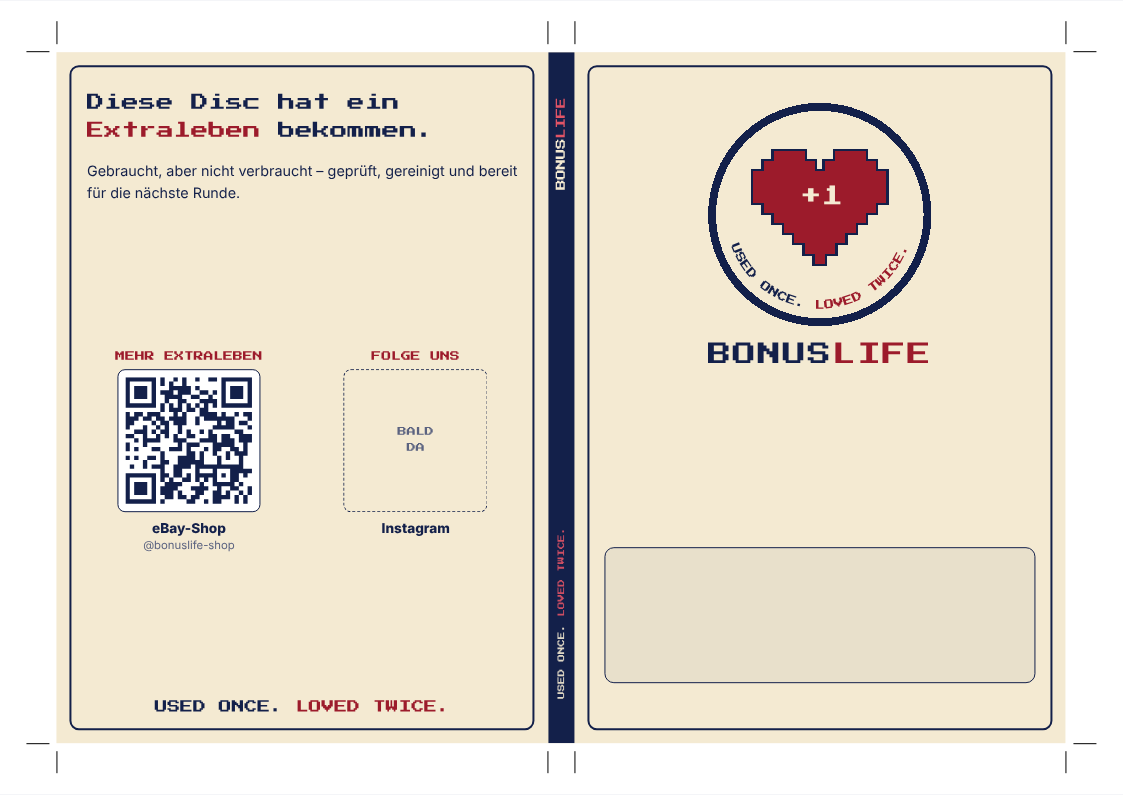
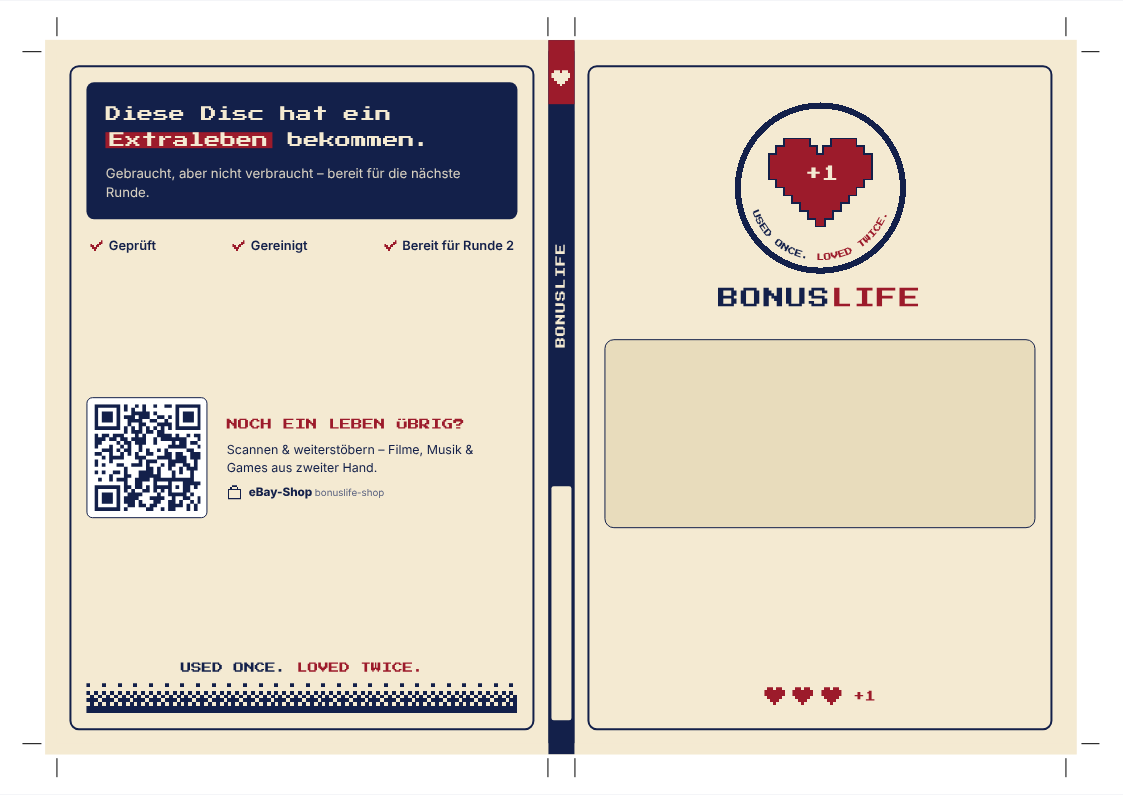
Redesign cover after marketing and art-direction review
Front: smaller badge with wordmark, title box moved up, pixel 'lives'
bar at the bottom. Spine: red heart cap, BONUSLIFE in cream, cream
write-on field for the title so stacked cases stay identifiable; slogan
and off-brand pink removed. Back: navy headline band, pixel checklist,
QR codes with call-to-action copy and own pixel icons (no third-party
logos), dithered pixel footer. Single shop code until an Instagram link
is entered. Adds 3 mm bleed and moves crop marks outside it.

Claude-Session: https://claude.ai/code/session_016MhpHubkyT9LhNT91FdgZQ

diff --git a/cover/index.html b/cover/index.html
@@ -12,13 +12,13 @@
   --panel-w:130mm;   /* Breite Vorder-/Rückseite */
   --spine:7mm;       /* Rückenbreite */
   --h:183mm;         /* Höhe */
+  --bleed:3mm;       /* Beschnittzugabe */
   /* Bonuslife-Farben (aus dem Logo) */
-  --cream:#f4ead2; --navy:#13204a; --red:#9c1b2b;
-  --bg:var(--cream); --fg:var(--navy); --accent:var(--red); --muted:#5b6380; --field:rgba(19,32,74,.05);
+  --cream:#f4ead2; --cream-d:#e8dcbc; --navy:#13204a; --red:#9c1b2b;
+  --bg:var(--cream); --fg:var(--navy); --accent:var(--red); --muted:#5b6380; --field:var(--cream-d);
   --ui-bg:#f4f5f8; --ui-fg:#1b1d2a; --ui-card:#ffffff; --ui-line:#d9dbe4;
 }
-.white{ --bg:#ffffff; }
-.dark{ --bg:var(--navy); --fg:var(--cream); --muted:#aab0c8; --field:rgba(244,234,210,.08); }
+.white{ --bg:#ffffff; --field:var(--cream); }
 @media (prefers-color-scheme: dark){
   :root:not([data-theme="light"]){ --ui-bg:#14151c; --ui-fg:#e8e9ef; --ui-card:#1e2029; --ui-line:#33364a; }
 }
@@ -41,46 +41,65 @@ h1{font-size:18px;margin-bottom:4px}
 .scroll{overflow-x:auto;padding-bottom:8px}
 .sheet{width:297mm;height:210mm;background:#fff;position:relative;box-shadow:0 2px 14px rgba(0,0,0,.18)}
 .cover{position:absolute;left:50%;top:50%;transform:translate(-50%,-50%);height:var(--h);
-  width:calc(var(--panel-w)*2 + var(--spine));display:flex;background:var(--bg);color:var(--fg);overflow:hidden}
-.panel{width:var(--panel-w);height:100%;position:relative;padding:8mm 8mm;display:flex;flex-direction:column}
-.spine{width:var(--spine);height:100%;background:var(--navy);color:var(--cream);display:flex;align-items:center;justify-content:center;overflow:hidden}
-.spine .sp{writing-mode:vertical-rl;transform:rotate(180deg);white-space:nowrap;display:flex;align-items:center;justify-content:space-between;height:100%;padding:12mm 0;font-size:min(3.2mm,calc(var(--spine)*.5))}
-.spine .sp b{font-family:"Press Start 2P",monospace;font-size:.85em;font-weight:400}
-.spine .sp b span{color:#e25466}
-.spine .sp .sl{font-size:.62em;opacity:.9}
+  width:calc(var(--panel-w)*2 + var(--spine));display:flex;background:var(--bg);color:var(--fg);
+  box-shadow:0 0 0 var(--bleed) var(--bg)}  /* Beschnitt: Hintergrund läuft 3 mm über */
+.panel{width:var(--panel-w);height:100%;position:relative;padding:8mm;display:flex;flex-direction:column;overflow:hidden}
+.frame{position:absolute;inset:3.5mm;border:.6mm solid var(--fg);border-radius:2.5mm;pointer-events:none}
+.px{display:block;shape-rendering:crispEdges}
 
-/* Schnitt- und Falzmarken (außerhalb des Covers) */
+/* Rücken */
+.spine{width:var(--spine);height:100%;position:relative;background:var(--navy);color:var(--cream);display:flex;flex-direction:column;align-items:center}
+.spine::before{content:"";position:absolute;left:0;right:0;top:calc(-1*var(--bleed));bottom:calc(-1*var(--bleed));background:var(--navy)}
+.spine>*{position:relative}
+.spine .cap{width:100%;height:calc(14mm + var(--bleed));margin-top:calc(-1*var(--bleed));padding-top:var(--bleed);background:var(--red);display:flex;align-items:center;justify-content:center}
+.spine .cap .px{width:min(5mm,calc(var(--spine)*.72))}
+.spine .name{flex:1;display:flex;align-items:center;justify-content:center}
+.spine .name b{writing-mode:vertical-rl;transform:rotate(180deg);font-family:"Press Start 2P",monospace;font-weight:400;font-size:min(2.8mm,calc(var(--spine)*.42));letter-spacing:.3mm;white-space:nowrap}
+.spine .write{width:calc(100% - 1.6mm);height:62mm;background:var(--cream);border-radius:.6mm;margin-bottom:6mm}
+
+/* Schnitt- und Falzmarken (außerhalb des Beschnitts) */
 .marks{position:absolute;left:50%;top:50%;transform:translate(-50%,-50%);height:var(--h);width:calc(var(--panel-w)*2 + var(--spine));pointer-events:none}
 .marks i{position:absolute;background:#000}
-.mh{height:.2mm;width:6mm}.mv{width:.2mm;height:6mm}
-
-/* Rahmen-Akzent */
-.frame{position:absolute;inset:3.5mm;border:.6mm solid var(--fg);border-radius:2.5mm;pointer-events:none}
+.mh{height:.2mm;width:5mm}.mv{width:.2mm;height:5mm}
 
 /* Vorderseite */
 .front{align-items:center;text-align:center}
-.badge{width:60mm;height:60mm;margin-top:5mm}
-.badge img{width:100%;height:100%;object-fit:contain}
-.brand{font-family:"Press Start 2P",monospace;font-size:6.2mm;margin-top:4mm;letter-spacing:.4mm}
+.badge{width:46mm;height:46mm;margin-top:5mm}
+.badge img,.badge svg{width:100%;height:100%;object-fit:contain;display:block}
+.brand{font-family:"Press Start 2P",monospace;font-size:5.6mm;margin-top:3.5mm;letter-spacing:.4mm}
 .brand span{color:var(--accent)}
-.titlefield{align-self:stretch;margin:auto 0 8mm;min-height:36mm;border:.5mm solid var(--fg);border-radius:2.5mm;background:var(--field);display:flex;align-items:center;justify-content:center;padding:4mm}
+.titlefield{align-self:stretch;margin-top:8mm;height:50mm;border:.5mm solid var(--fg);border-radius:2.5mm;background:var(--field);display:flex;align-items:center;justify-content:center;padding:4mm}
 .titlefield .t{font-weight:800;font-size:7.5mm;line-height:1.15;word-break:break-word}
+.lives{margin-top:auto;margin-bottom:2mm;display:flex;gap:2mm;align-items:center}
+.lives .px{width:5.5mm}
+.lives .plus{font-family:"Press Start 2P",monospace;font-size:3mm;color:var(--accent);margin-left:1mm}
 
 /* Rückseite */
-.back{justify-content:space-between}
-.back h2{font-family:"Press Start 2P",monospace;font-size:4.6mm;line-height:1.6;font-weight:400;margin-top:2mm}
-.back h2 span{color:var(--accent)}
-.back p{font-size:3.8mm;line-height:1.5;margin-top:4mm}
-.qrs{display:flex;gap:6mm;justify-content:center}
-.qrcard{flex:1;display:flex;flex-direction:column;align-items:center;text-align:center;gap:2mm}
-.qrcard .k{font-family:"Press Start 2P",monospace;font-size:2.6mm;color:var(--accent)}
-.qr{width:38mm;height:38mm;background:#fff;padding:2mm;border-radius:2mm;border:.5mm solid var(--navy)}
+.head{position:relative;background:var(--navy);color:var(--cream);border-radius:2mm;padding:5mm 5mm 4.5mm}
+.head h2{font-family:"Press Start 2P",monospace;font-size:4.2mm;line-height:1.7;font-weight:400}
+.head h2 span{background:var(--red);padding:0 1mm;box-decoration-break:clone;-webkit-box-decoration-break:clone}
+.head p{font-size:3.5mm;line-height:1.45;margin-top:2.5mm;opacity:.88}
+.checks{display:flex;justify-content:space-between;margin-top:5mm;padding:0 1mm}
+.checks span{display:flex;align-items:center;gap:1.6mm;font-size:3.4mm;font-weight:600}
+.checks .px{width:3.2mm}
+.qrs{margin:auto 0;display:flex;gap:6mm;justify-content:center}
+.qrcard{flex:1;display:flex;flex-direction:column;align-items:center;text-align:center;gap:2mm;max-width:52mm}
+.qrcard .k{font-family:"Press Start 2P",monospace;font-size:2.5mm;line-height:1.5;color:var(--accent)}
+.qr{width:28mm;height:28mm;background:#fff;padding:1.6mm;border-radius:1.6mm;border:.5mm solid var(--navy)}
 .qr svg{width:100%;height:100%;display:block}
-.qr.soon{background:transparent;border-style:dashed;display:flex;align-items:center;justify-content:center;font-family:"Press Start 2P",monospace;font-size:2.4mm;line-height:1.8;color:var(--muted)}
-.qrcard .n{font-weight:800;font-size:3.6mm}
-.qrcard .h{font-size:3mm;color:var(--muted);margin-top:-1.4mm}
-.slogan{font-family:"Press Start 2P",monospace;font-size:3.4mm;text-align:center}
+.qrcard .lbl{display:flex;align-items:center;gap:1.6mm;font-size:3.1mm;font-weight:800}
+.qrcard .lbl .px{width:4.2mm}
+.qrcard .lbl small{font-weight:400;color:var(--muted)}
+/* nur ein Code: quer, mit Text daneben */
+.qrs.single .qrcard{flex-direction:row;max-width:none;text-align:left;gap:5mm}
+.qrs.single .qr{width:32mm;height:32mm;flex:none}
+.qrs.single .txt{display:flex;flex-direction:column;gap:2.2mm;align-items:flex-start}
+.qrs.single .k{font-size:3mm}
+.qrcard .cta{font-size:3.3mm;line-height:1.4}
+.bottom{text-align:center}
+.slogan{font-family:"Press Start 2P",monospace;font-size:2.8mm;margin-bottom:2.5mm}
 .slogan span{color:var(--accent)}
+.dither{display:block;width:100%;height:8mm}
 
 @media print{
   @page{size:A4 landscape;margin:0}
@@ -95,13 +114,13 @@ h1{font-size:18px;margin-bottom:4px}
 <body>
 <div class="noprint">
   <h1>Bonuslife – Cover für Slim-DVD-Hüllen</h1>
-  <p class="hint">Titel leer lassen = Feld zum Beschriften von Hand. Drucken auf A4 quer, <b>Skalierung 100 % / „Tatsächliche Größe“</b>, Ränder „Keine“, Hintergrundgrafiken an. Schnittmarken außen, kurze Striche oben/unten = Falz am Rücken.</p>
+  <p class="hint">Titel leer lassen = Feld zum Beschriften von Hand (vorne und auf dem Rücken). Drucken auf A4 quer, <b>Skalierung 100 % / „Tatsächliche Größe“</b>, Ränder „Keine“, Hintergrundgrafiken an. An den Schnittmarken schneiden (3 mm Beschnitt sind eingerechnet), kurze Striche oben/unten = Falz am Rücken.</p>
   <div class="controls">
     <label>Titel (optional)<input id="title" placeholder="leer = handschriftlich"></label>
-    <label>Original-Logo (PNG/SVG, optional)<input type="file" id="logo" accept="image/*"></label>
     <label>eBay-Shop-Link<input id="url" value="https://www.ebay.de/usr/bonuslife-shop"></label>
-    <label>Instagram-Link<input id="insta" placeholder="leer = „Bald auf Instagram“"></label>
-    <label>Hintergrund<select id="theme"><option value="">Creme</option><option value="white">Weiß (spart Tinte)</option><option value="dark">Navy</option></select></label>
+    <label>Instagram-Link<input id="insta" placeholder="leer = nur Shop-Code"></label>
+    <label>Original-Logo (PNG/SVG, optional)<input type="file" id="logo" accept="image/*"></label>
+    <label>Hintergrund<select id="theme"><option value="">Creme</option><option value="white">Weiß (für Creme-Papier / spart Tinte)</option></select></label>
     <label>Rücken (mm)<select id="spine"><option>5</option><option selected>7</option><option>9</option><option>14</option></select></label>
     <label>Seitenbreite (mm)<input id="pw" type="number" step="0.5" value="130"></label>
     <label>Höhe (mm)<input id="h" type="number" step="0.5" value="183"></label>
@@ -115,24 +134,30 @@ h1{font-size:18px;margin-bottom:4px}
     <!-- Rückseite (links) -->
     <div class="panel back">
       <div class="frame"></div>
-      <div class="intro">
-      <h2>Diese Disc hat ein <span>Extraleben</span> bekommen.</h2>
-      <p>Gebraucht, aber nicht verbraucht – geprüft, gereinigt und bereit für die nächste Runde.</p>
+      <div class="head">
+        <h2>Diese Disc hat ein <span>Extraleben</span> bekommen.</h2>
+        <p>Gebraucht, aber nicht verbraucht – bereit für die nächste Runde.</p>
       </div>
-      <div class="qrs">
-        <div class="qrcard"><div class="k">MEHR EXTRALEBEN</div><div class="qr" id="qrShop"></div><div class="n">eBay-Shop</div><div class="h" id="hShop"></div></div>
-        <div class="qrcard"><div class="k">FOLGE UNS</div><div class="qr" id="qrInsta"></div><div class="n">Instagram</div><div class="h" id="hInsta"></div></div>
+      <div class="checks"><span data-px="check">Geprüft</span><span data-px="check">Gereinigt</span><span data-px="check">Bereit für Runde 2</span></div>
+      <div class="qrs" id="qrs"></div>
+      <div class="bottom">
+        <div class="slogan">USED ONCE. <span>LOVED TWICE.</span></div>
+        <svg class="dither" id="dither" preserveAspectRatio="none"></svg>
       </div>
-      <div class="slogan">USED ONCE. <span>LOVED TWICE.</span></div>
     </div>
     <!-- Rücken -->
-    <div class="spine"><div class="sp"><b class="sl">USED ONCE. <span>LOVED TWICE.</span></b><b>BONUS<span>LIFE</span></b></div></div>
+    <div class="spine">
+      <div class="cap" data-px="heartCream"></div>
+      <div class="name"><b>BONUSLIFE</b></div>
+      <div class="write"></div>
+    </div>
     <!-- Vorderseite (rechts) -->
     <div class="panel front">
       <div class="frame"></div>
       <div class="badge" id="logoArea"></div>
       <div class="brand">BONUS<span>LIFE</span></div>
       <div class="titlefield" id="titleOut"></div>
+      <div class="lives"><span data-px="heart"></span><span data-px="heart"></span><span data-px="heart"></span><span class="plus">+1</span></div>
     </div>
   </div>
   <div class="marks" id="marks"></div>
@@ -141,9 +166,25 @@ h1{font-size:18px;margin-bottom:4px}
 
 <script>
 const $=id=>document.getElementById(id);
+const NAVY='#13204a',RED='#9c1b2b',CREAM='#f4ead2';
 
-// Nachbau des Bonuslife-Logos als SVG (Pixel-Herz mit +1, Ring, Schriftzug).
-// Wird durch ein hochgeladenes Original-Logo ersetzt.
+// Pixel-Grafiken (# = gefüllt)
+const HEART=['.##.##.','#######','#######','.#####.','..###..','...#...'];
+const PX={
+  heart:{c:RED,g:HEART},
+  heartCream:{c:CREAM,g:HEART},
+  check:{c:RED,g:['......#','.....##','#...##.','##.##..','.###...','..#....']},
+  bag:{c:NAVY,g:['....####....','...#....#...','...#....#...','.##########.','.#........#.','.#........#.','.#........#.','.#........#.','.#........#.','.#........#.','.##########.']},
+  cam:{c:NAVY,g:['.##########.','#..........#','#.......##.#','#...####...#','#..#....#..#','#..#....#..#','#..#....#..#','#..#....#..#','#...####...#','#..........#','.##########.']}
+};
+function pxSVG(name){
+  const {c,g}=PX[name];let r='';
+  g.forEach((row,y)=>[...row].forEach((ch,x)=>{if(ch==='#')r+=`<rect x="${x}" y="${y}" width="1.02" height="1.02"/>`}));
+  return `<svg class="px" viewBox="0 0 ${g[0].length} ${g.length}" fill="${c}">${r}</svg>`;
+}
+function fillPx(root){root.querySelectorAll('[data-px]').forEach(el=>el.insertAdjacentHTML('afterbegin',pxSVG(el.dataset.px)))}
+
+// Nachbau des Bonuslife-Logos als SVG. Wird durch ein hochgeladenes Original-Logo ersetzt.
 function badgeSVG(){
   const rows=[[2,4,8,10],[1,5,7,11],[0,12],[0,12],[0,12],[1,11],[2,10],[3,9],[4,8],[5,7],[6,6]];
   const u=9,ox=41.5,oy=44,o=2.2;let navy='',red='';
@@ -151,12 +192,38 @@ function badgeSVG(){
     navy+=`<rect x="${x-o}" y="${yy-o}" width="${w+2*o}" height="${u+2*o}"/>`;
     red+=`<rect x="${x}" y="${yy}" width="${w}" height="${u+.5}"/>`;}});
   return `<svg viewBox="0 0 200 200" xmlns="http://www.w3.org/2000/svg" shape-rendering="crispEdges">
-  <circle cx="100" cy="100" r="95" fill="#f4ead2" stroke="#13204a" stroke-width="7"/>
-  <g fill="#13204a">${navy}</g><g fill="#9c1b2b">${red}</g>
-  <text x="101.5" y="93" text-anchor="middle" font-family="'Press Start 2P',monospace" font-size="19" fill="#f4ead2">+1</text>
+  <circle cx="100" cy="100" r="95" fill="${CREAM}" stroke="${NAVY}" stroke-width="7"/>
+  <g fill="${NAVY}">${navy}</g><g fill="${RED}">${red}</g>
+  <text x="101.5" y="93" text-anchor="middle" font-family="'Press Start 2P',monospace" font-size="19" fill="${CREAM}">+1</text>
   <defs><path id="arc" d="M 16 100 A 84 84 0 0 0 184 100"/></defs>
-  <text font-family="'Press Start 2P',monospace" font-size="8.8" letter-spacing=".2" shape-rendering="auto"><textPath href="#arc" startOffset="50%" text-anchor="middle"><tspan fill="#13204a">USED ONCE. </tspan><tspan fill="#9c1b2b">LOVED TWICE.</tspan></textPath></text>
+  <text font-family="'Press Start 2P',monospace" font-size="8.8" letter-spacing=".2" shape-rendering="auto"><textPath href="#arc" startOffset="50%" text-anchor="middle"><tspan fill="${NAVY}">USED ONCE. </tspan><tspan fill="${RED}">LOVED TWICE.</tspan></textPath></text>
 </svg>`;
+}
+
+// Pixel-Verlauf (geordnetes Dithering) als Abschluss der Rückseite
+function drawDither(){
+  const W=110,H=8,B=[[0,8,2,10],[12,4,14,6],[3,11,1,9],[15,7,13,5]];let r='';
+  for(let y=0;y<H;y++)for(let x=0;x<W;x++){if(B[y%4][x%4]/16<(y+1)/H*.95)r+=`<rect x="${x}" y="${y}" width="1.02" height="1.02"/>`}
+  $('dither').setAttribute('viewBox',`0 0 ${W} ${H}`);
+  $('dither').innerHTML=`<g fill="${NAVY}" shape-rendering="crispEdges">${r}</g>`;
+}
+
+function qrSVG(url){const q=qrcode(0,'M');q.addData(url);q.make();return q.createSvgTag(4,0).replace(/fill="black"|fill="#000000"/g,`fill="${NAVY}"`)}
+function lastSeg(url){const m=url.replace(/\/+$/,'').match(/([^\/?#]+)(?:[?#].*)?$/);return m?m[1]:url}
+
+function renderQRs(){
+  const shop=$('url').value.trim(), ig=$('insta').value.trim(), box=$('qrs');
+  const shopLbl=`<div class="lbl">${pxSVG('bag')}<span>eBay-Shop <small>${esc(lastSeg(shop))}</small></span></div>`;
+  if(shop&&!ig){
+    box.className='qrs single';
+    box.innerHTML=`<div class="qrcard"><div class="qr">${qrSVG(shop)}</div><div class="txt">
+      <div class="k">NOCH EIN LEBEN ÜBRIG?</div>
+      <div class="cta">Scannen &amp; weiterstöbern – Filme, Musik &amp; Games aus zweiter Hand.</div>${shopLbl}</div></div>`;
+    return;
+  }
+  box.className='qrs';
+  box.innerHTML=(shop?`<div class="qrcard"><div class="k">NOCH EIN LEBEN<br>ÜBRIG?</div><div class="qr">${qrSVG(shop)}</div>${shopLbl}</div>`:'')+
+    (ig?`<div class="qrcard"><div class="k">PLAYER 2<br>GESUCHT!</div><div class="qr">${qrSVG(ig)}</div><div class="lbl">${pxSVG('cam')}<span>Instagram <small>@${esc(lastSeg(ig))}</small></span></div></div>`:'');
 }
 
 let logoData=null;
@@ -169,39 +236,18 @@ function render(){
   r.setProperty('--spine',$('spine').value+'mm');
   r.setProperty('--panel-w',(parseFloat($('pw').value)||130)+'mm');
   r.setProperty('--h',(parseFloat($('h').value)||183)+'mm');
-  const th=$('theme').value;
-  $('cover').classList.toggle('white',th==='white');
-  $('cover').classList.toggle('dark',th==='dark');
+  $('cover').classList.toggle('white',$('theme').value==='white');
 
   $('logoArea').innerHTML=logoData?'<img src="'+logoData+'" alt="Bonuslife Logo">':badgeSVG();
-
   const t=$('title').value.trim();
   $('titleOut').innerHTML=t?'<div class="t">'+esc(t)+'</div>':'';
-
-
-  setQR('qrShop','hShop',$('url').value.trim());
-  setQR('qrInsta','hInsta',$('insta').value.trim());
-
+  renderQRs();
   drawMarks();
-}
-
-// QR-Code als SVG (lokale Bibliothek, funktioniert offline)
-function setQR(boxId,handleId,url){
-  const box=$(boxId);
-  box.classList.toggle('soon',!url);
-  $(handleId).textContent=url?handle(url):'';
-  if(!url){box.innerHTML='BALD<br>DA';return}
-  const q=qrcode(0,'M');q.addData(url);q.make();
-  box.innerHTML=q.createSvgTag(4,0).replace(/fill="black"|fill="#000000"/g,'fill="#13204a"');
-}
-function handle(url){
-  const m=url.replace(/\/+$/,'').match(/([^\/?#]+)(?:[?#].*)?$/);
-  return m?'@'+m[1]:url;
 }
 
 function drawMarks(){
   const pw=parseFloat($('pw').value)||130, sp=parseFloat($('spine').value), h=parseFloat($('h').value)||183;
-  const W=pw*2+sp, g=2, L=6, out=[];
+  const W=pw*2+sp, g=4, L=5, out=[];  // g > Beschnitt, damit die Marken frei bleiben
   const add=(cls,x,y)=>out.push('<i class="'+cls+'" style="left:'+x+'mm;top:'+y+'mm"></i>');
   // Ecken
   [[0,0],[W,0],[0,h],[W,h]].forEach(([x,y])=>{
@@ -221,7 +267,7 @@ $('logo').addEventListener('change',e=>{
 function resetLogo(){logoData=null;try{localStorage.removeItem('bl_logo')}catch(e){}$('logo').value='';render()}
 
 document.querySelectorAll('.controls input:not([type=file]),.controls select').forEach(el=>el.addEventListener('input',render));
-render();
+fillPx(document);drawDither();render();
 if(document.fonts)document.fonts.ready.then(render);
 </script>
 </body>
